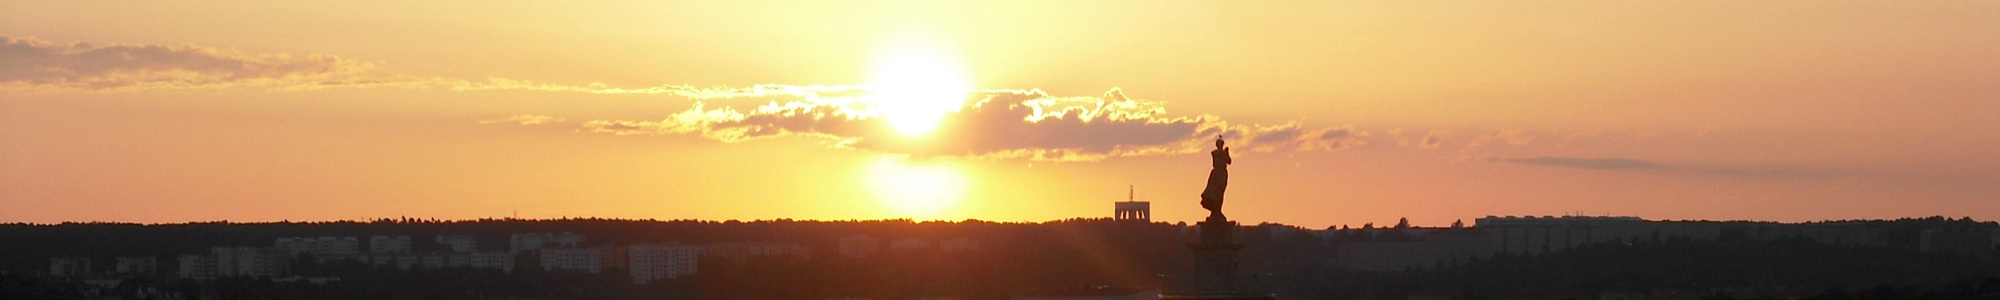
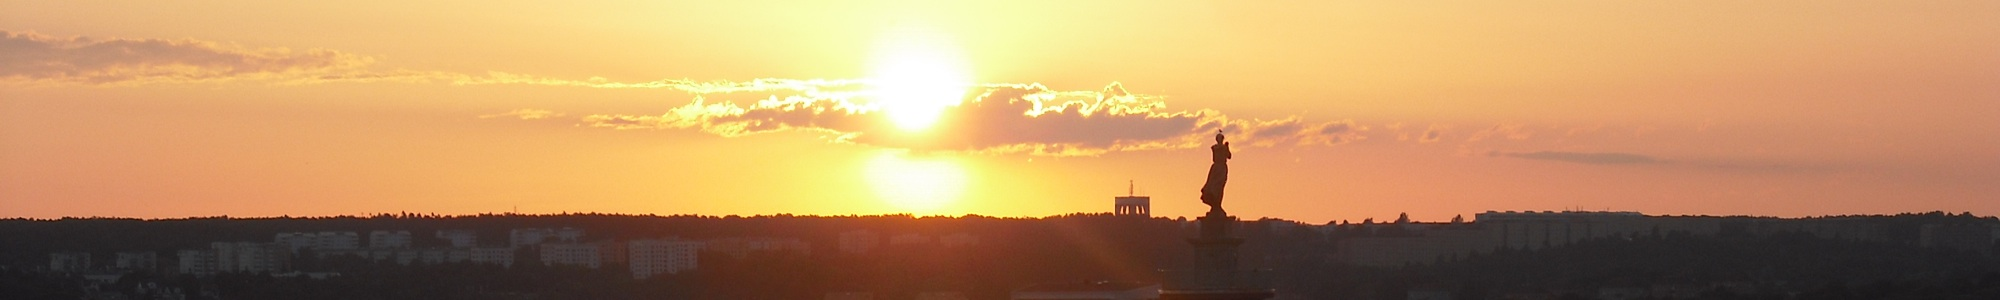
Adds ten random background images.

diff --git a/assets/scss/style.css b/assets/scss/style.css
@@ -407,7 +407,7 @@ body {
 
 .header-bg {
   box-shadow: inset 0 0 15px rgba(0, 0, 0, 0.8);
-  background: url(../img/header-1.jpg) 50% 0 repeat fixed;
+  background: url() 50% 0 repeat fixed;
   height: 200px;
   margin-top: 60px;
   background-repeat: no-repeat;

diff --git a/assets/scss/style.scss b/assets/scss/style.scss
@@ -23,7 +23,7 @@ body {
 .header-bg {
    @include box-shadow(inset 0 0 15px hsla(0, 0%, 0%, 0.8));
 
-   background: url(../img/header-1.jpg) 50% 0 repeat fixed;
+   background: url() 50% 0 repeat fixed;
 
    height: 200px;
    margin-top: 60px;

diff --git a/index.php b/index.php
@@ -35,7 +35,7 @@
             </div>
         </div>
 
-        <div class="header-bg" data-speed="2"></div>
+        <div class="header-bg" data-speed="2" style="background-image: url(<?php echo baseUri; ?>assets/img/header-<?php echo rand(1, 10); ?>.jpg)"></div>
 
         <div class="wrap-outer">
             <div class="navigation">
